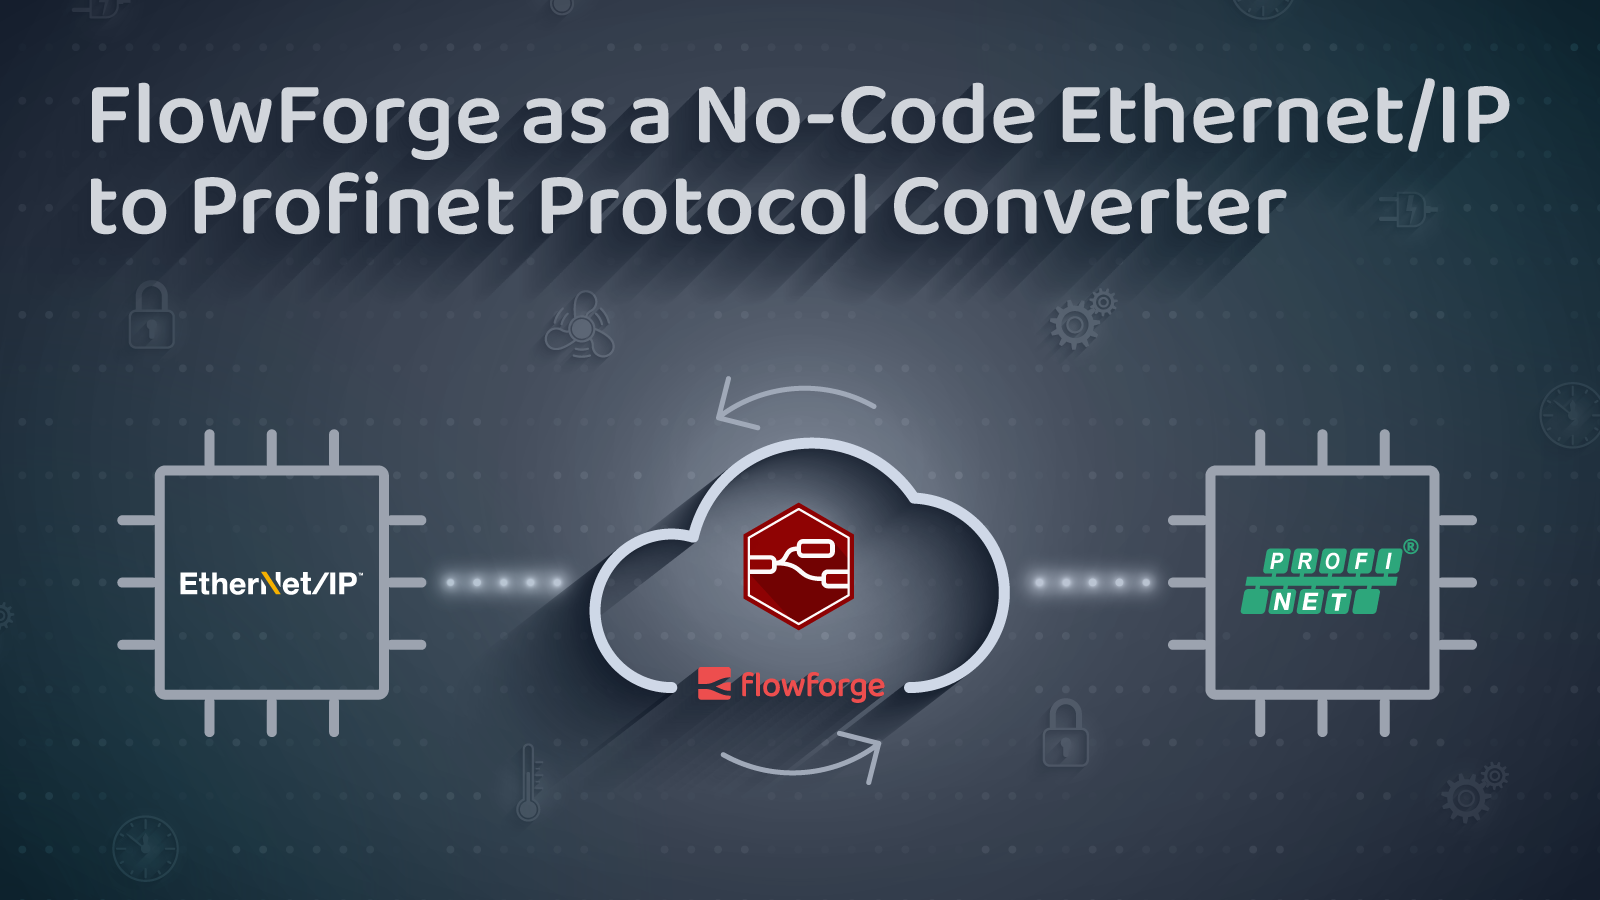
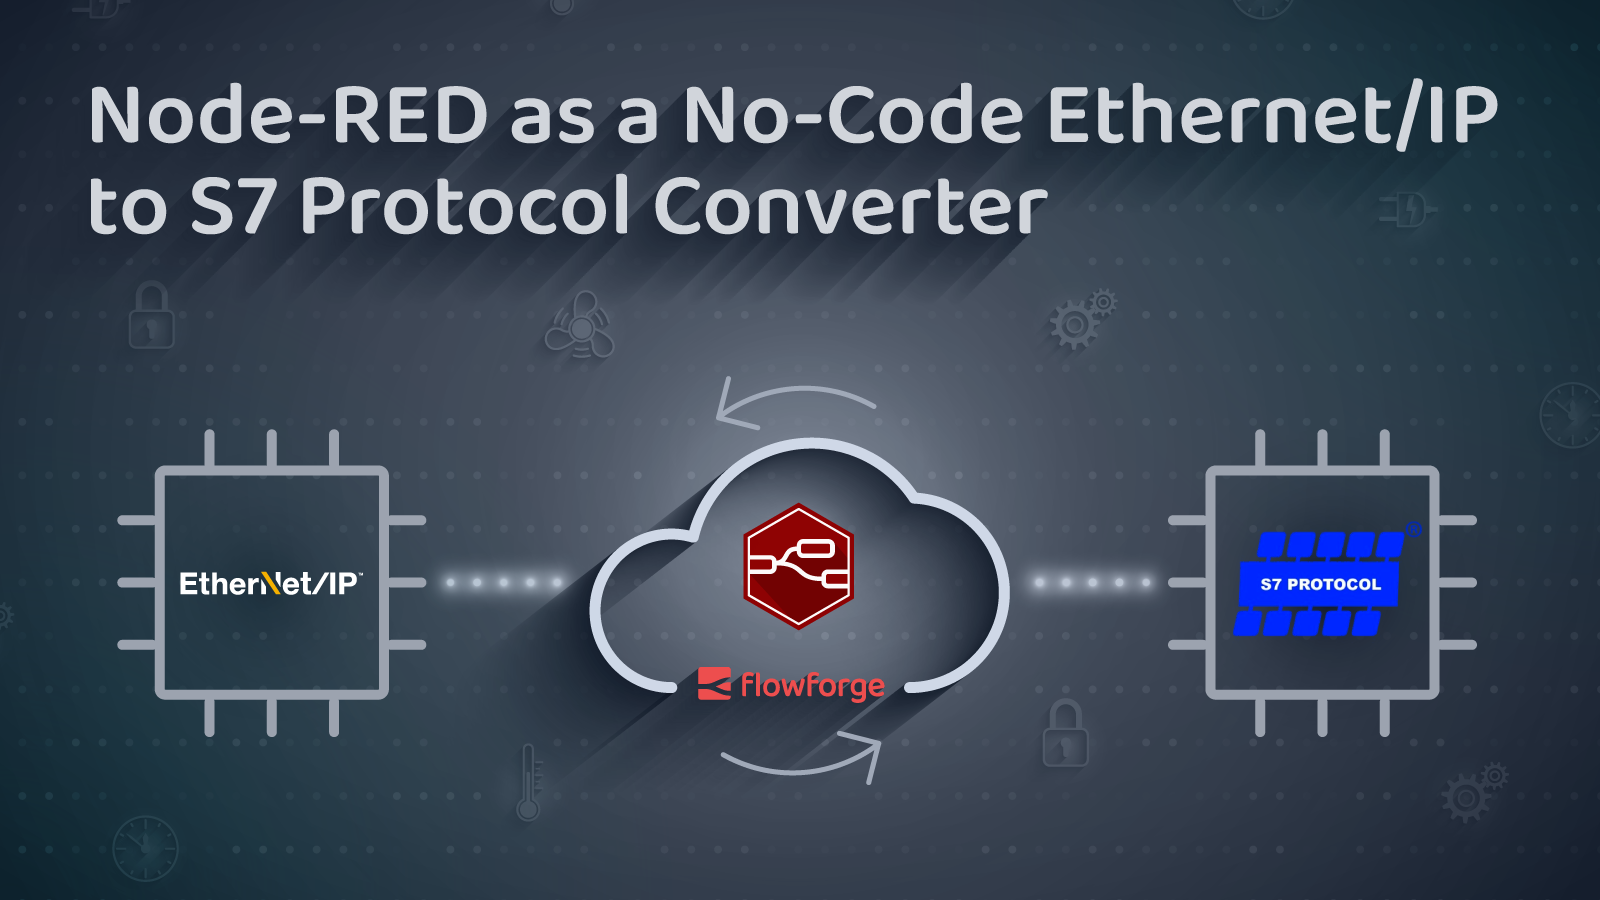
update title image, add url redirect

Changed region(s): [[0.0625, 0.0933, 0.9688, 0.28], [0.75, 0.5911, 0.9062, 0.7156]]

diff --git a/src/blog/2023/06/Node-RED-as-a-No-Code-Ethernet_IP-to-S7-Protocol-Converter.md b/src/blog/2023/06/Node-RED-as-a-No-Code-Ethernet_IP-to-S7-Protocol-Converter.md
@@ -205,9 +205,9 @@ Use filters to optimize your fieldbus converter network performance, especially 
 
 # Conclusion
 
-In this tutorial, we demonstrated how to use FlowForge as a free Ethernet/IP to S7 protocol converter using a simple node-code approach.  We showed how to configure PLC tags to be sent remotely using Ethernet/IP, how to configure PLC tags to be received remotely using S7, and how to create the flow to use FlowForge to seamlessly convert incoming PLC data between the two protocols using `node-red-contrib-cip-ethernet-ip` and `node-red-contrib-s7` custom nodes.  We also took things one step further and added a `filter` node to optimize FieldBus network traffic by putting a deadband on REAL data being sent to the receiving PLC.
+In this tutorial, we demonstrated how to use Node-RED as a free Ethernet/IP to S7 protocol converter using a simple no-code approach.  We showed how to configure PLC tags to be sent remotely using Ethernet/IP, how to configure PLC tags to be received remotely using S7, and how to create the flow to use Node-RED to seamlessly convert incoming PLC data between the two protocols using `node-red-contrib-cip-ethernet-ip` and `node-red-contrib-s7` custom nodes.  We also took things one step further and added a `filter` node to optimize FieldBus network traffic by putting a deadband on REAL data being sent to the receiving PLC.
 
-The end result is a simple to set up, free and performant industrial protocol converter that requires minimal PLC configuration, which allows this application to be applied in non-mission critical production systems with minimal, if any downtime.  Additionally, the protocol traffic can be visually observed in real-time for easy trouble-shooting and fault analysis by simply accessing the FlowForge UI. 
+The end result is a simple to set up, free and performant industrial protocol converter that requires minimal PLC configuration, which allows this application to be applied in non-mission critical production systems with minimal, if any downtime.  Additionally, the protocol traffic can be visually observed in real-time for easy trouble-shooting and fault analysis by simply accessing the Node-RED UI. 
 
 In later tutorials, we can show ways this simple flow can be extended to add additional capabilities not normally available in traditional off-the-shelf protocol gateways. If you found this tutorial helpful, or have any questions or comments, please leave us a comment and let us know your thoughts.
 

diff --git a/src/redirect.md b/src/redirect.md
@@ -25,6 +25,7 @@ redirects:
   - { "from": "/blog/2023/03/comparinig-dashboards/", "to": "/blog/2023/03/comparing-node-red-dashboards" }
   - { "from": "/roadmap/", "to": "/product/roadmap/" }
   - { "from": "/handbook/development/release/", "to": "/handbook/development/releases/" }
+  - { "from": "/blog/2023/06/Flowforge-as-a-No-Code-Ethernet_IP-to-Profinet-Protocol-Converter/", "to": "/blog/2023/06/Node-RED-as-a-No-Code-Ethernet_IP-to-S7-Protocol-Converter/" }
 # The "permalink" attribute determines where the output page will be located.
 permalink: "{{ redirect.from }}"
 # The "redirect" layout just has a small html header with the meta tags that do redirection.
